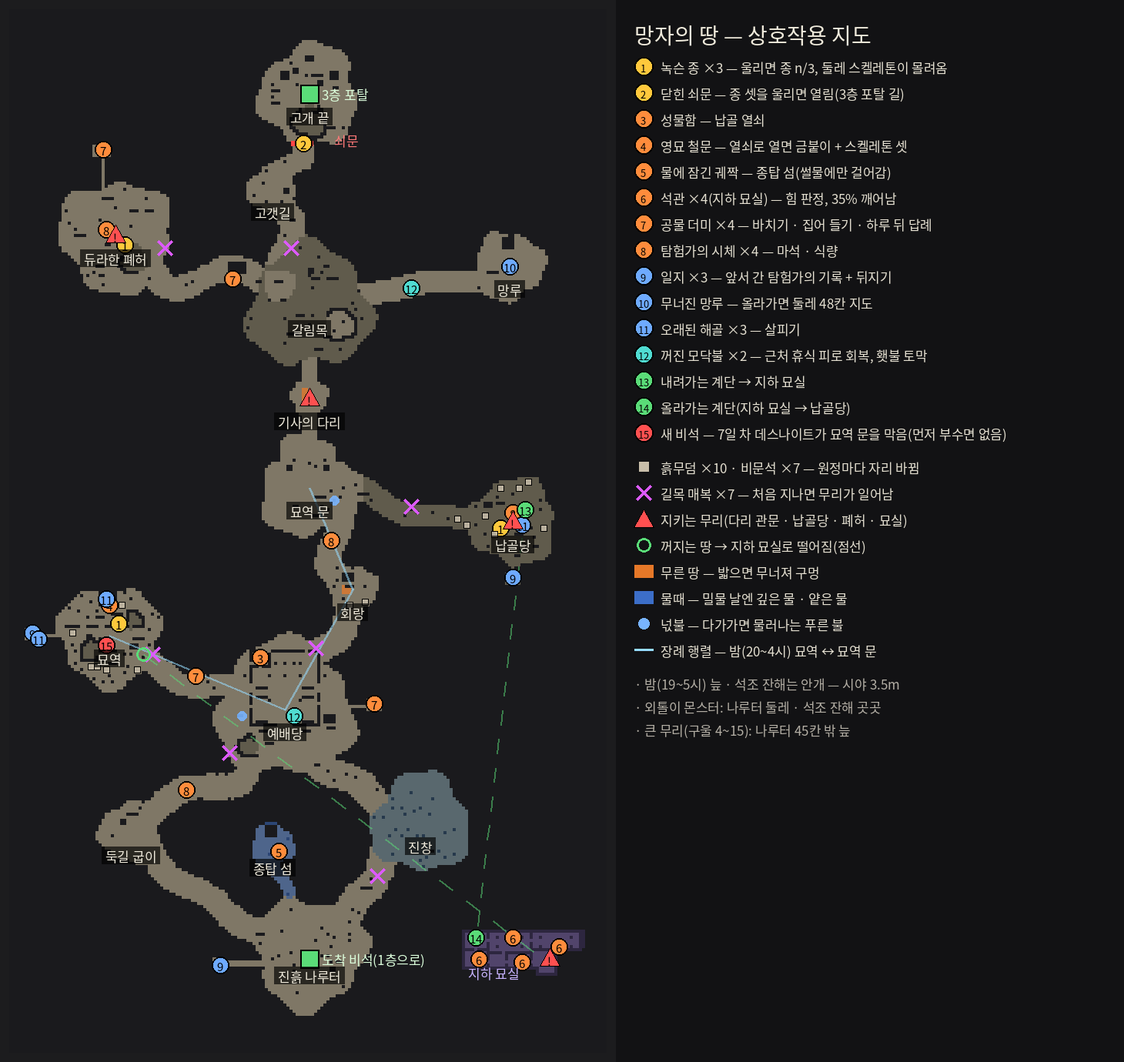
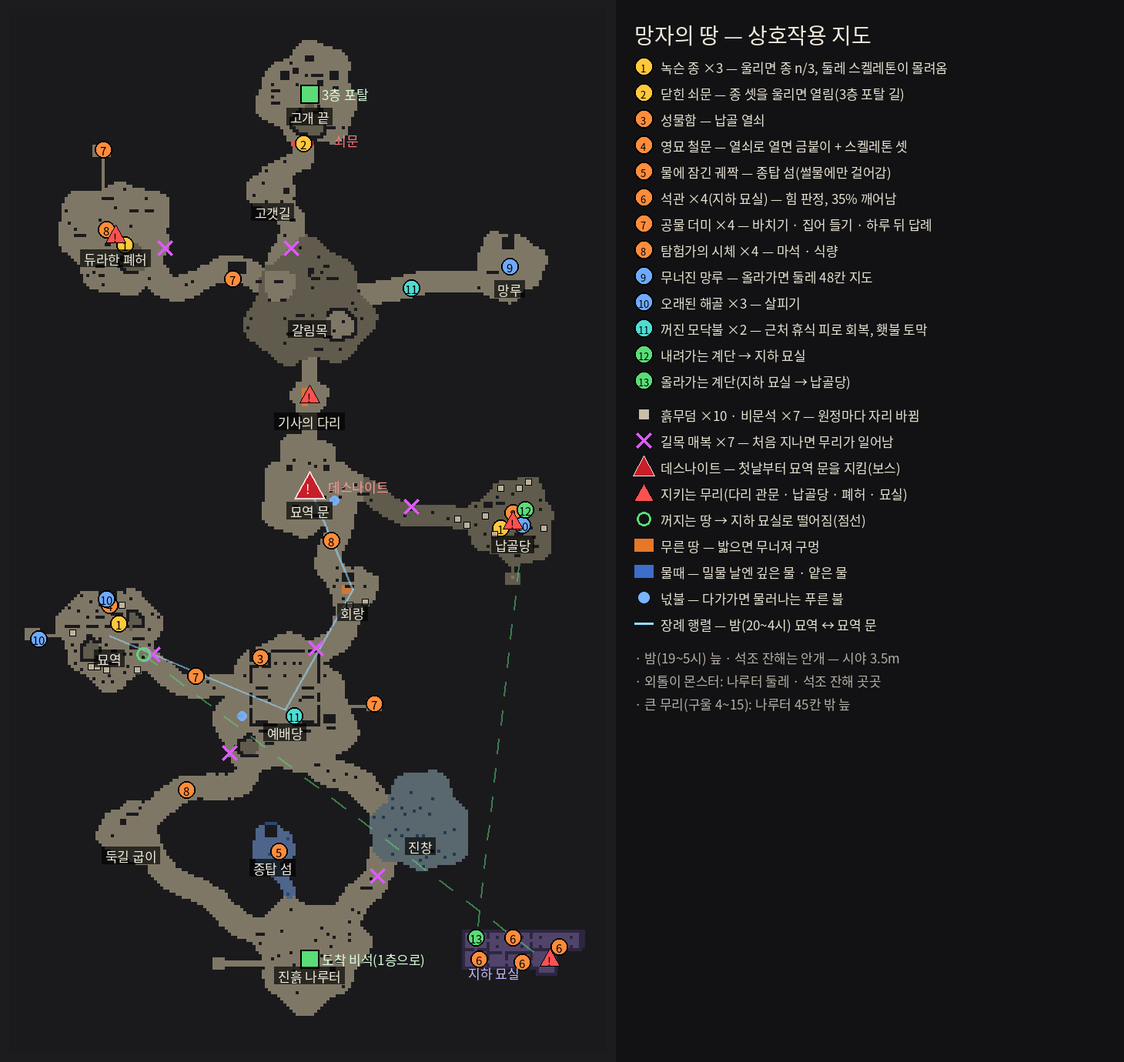
망자의 땅: 데스나이트는 첫날부터 묘역 문을 지킨다(비석 7일 차 깨어남 지움), 앞서 간 탐험가 일지 셋 지움
Claude-Session: https://claude.ai/code/session_01Afqs6cVmrzb62qBFp3aYYp

diff --git a/docs/REFERENCE.md b/docs/REFERENCE.md
@@ -67,8 +67,8 @@
 - **동네 지도(2026-11-02, CT82 — 횡스크롤 거리 대신 · v3 2026-11-03, CT95)**: 컬렉션 `town`(`data/town/<id>.json` {id, name_ko, size [w, h], start [x, y], seed, bands[] {h(칸 높이), line [[x, y]…](그 단의 남쪽 경계 — 마지막 단은 없음)}(경계 칸 = 옹벽, 계단은 칸 사이 높이를 잇는다), areas[] {kind(street·avenue·paving·plaza·stairs·bridge·yard·water·retain·wall·gate·dais)(바닥 굽기 표시: main = 큰길 · pattern "diag" = 광장 판석 · wood = 나무 부두 — CT103), rect [x0, y0, x1, y1] · circle [cx, cy, r] · poly [[x, y]…] · line [[x, y]…] + width, h(그 칸 높이를 따로 — 수로 물), gate면 id·travel}, houses[] {center [x, y], size [폭, 깊이], angle(도, + = 시계 방향), floors, place(퀘스트 자리 id)}(집 목록 — v4 블록 도시는 블록 둘레 줄집, ← tools/town_v4.py · CT100 · zone(civic · market · res · river · townhall — 집 꼴 · 지붕 색, CT103)), places[] {id, name_ko, at [[x, y]…], hook_ko}(퀘스트 · 거리 사건 자리 — 지금은 자리만), sewer {tunnels [[[x, y]…]…], entrances [[x, y]…]}(하수도 — 자리만), blocks[] [x0, y0, x1, y1, 각도(도)](그 각도로 기운 줄의 작은 집 — CT84), buildings[] {facility, rect 또는 circle, style(gothic·rotunda·hall·stone·inn·arcade·workshop), floors, door [x, y](앞면 맨 아래 줄)}, props[] {kind(lamp·tent·board·barrel·crate·sacks·well·grave·stall·cart·bench·planter·fountain·laundry — CT98 · tree·bush·woodpile·trough·signpost·statue·bollard·banner·goods — CT101 · sign·walllamp·wagon·rail·boat(물 칸 위 — TownMap.FLOATING)·household — CT103), at [[x, y]…] · line [x0, y0, x1, y1] + step · ring [cx, cy, r, n] · rect}}) → `TownMap.load_for(db, overrides)`(kind_at·ground_at·is_walkable·height_at(칸)·elevation(몸 자리 — 계단 보간)·max_height·target(pos, facing) → {door}·{gate, travel}·{ring} · door_front · house_of · places · houses[{id, center, size, angle, rect, floors, roof hip·gable, ridge_long, style stone·timber·plaster·시설 꼴, look, facility, place, elev(선 땅 높이), circle, door}] · props · gates · dais · map(FloorMap)). 3/4 높이 그리기: 구운 바닥 `assets/town/ground/index.json`{tile, chunks[{file, rect [x, y, w, h] 게임 px}]} ← tools/town_ground_bake.py(CT99 — 있으면 TownWorld._baked_ground, 없으면 TownGround(칸 높이만큼 위 + 남쪽보다 높으면 앞면)) · TownHouse.lift · TownProp.lift · TownWorld.player_root(발 = 정렬, 몸은 그 안에서 위로) — CT95. 걷기 `city.json town{map, walk_tiles_per_sec, body_half, corner_assist, stairs_speed, floor_tile, block_tile}`, 그림 `render.json city.town{zoom, actor_scale, storey, base, roof_pitch, facility_pitch, roof_rise_max, overhang, light, ambient, diffuse, ink_alpha, fade_alpha, fade_speed, facility_dim, chunk, ground_ao, litter, colors{바닥 종류·stone[]·plaster[]·timber_fill[]·slate[]·roofs[]·shutter[]·banner[]·…}}` — 집은 `TownSolid`(3D 면 → 게임 시점, CT84), 재질 `assets/town/mat/<id>.webp`(tools/paint_town.gd). 집 그림 = 구운 그림판 `assets/town/houses/p<k>.webp` + `index.json`{scale, houses{id: {page, rect [x, y, w, h], off [x, y](노드 원점 기준 게임 px), key}}} ← `tools/paint_town_houses.gd`(CT85) — `TownHouse.baked(h)`·`bake_key(h)`·`front_y_of(h)`, 모양 값이 다르면 선 그림. `TownWorld.stream(화면 가운데)` = 둘레 집 노드만(8칸 묶음). 검사 `TownRules`(문 앞이 들어온 자리에서 닿는가). 문구 `city.town.portal_closed`. 시설 창 `FacilityView`(동네 위 어둡게 — 실내는 지웠다, CT83).
 - **시설 실내(2026-11-04, CT106)**: 시설 `interior`(→ 컬렉션 `interiors`, `data/interiors/<id>.json` {id, facility, name_ko, art_dir, rows(칸 글자 — `#` 벽 · `.` 바닥 · `D` 바깥 문, 맨 윗줄 = 북벽), legend {글자: {kind: wallart|furniture|low|door|back|npc, name_ko, art(그림 이름 — `tools/interior_furn.py`·`interior_walldeco.py`), light {color, radius, power}, needs(활동이 이번 순에 있을 때만 선다), opens(이 사건 순에만 열리는 문), locked}}, rooms [{at, name_ko, floor, wall, ambient}], spots [{char | at, activities, name_ko}], npcs [{at, look, name_ko, face, needs}]}) → `CityInterior`(방 = 벽 · 벽 장식 · 문으로 나뉜 칸 덩어리, `room_at` · `target` · `start`). 규칙 `city.json interior.max_room`, 연출 `render.json city.interior {fade_sec, camera_sec, actor_tint}`. 그림 `assets/city/interiors/<id>/index.json`(tile · wall_h · rooms[{bg, front[]}] · wallart[] · furniture{"x,y"}) ← `python3 tools/interior_bake.py`. 검사 `CityInteriorRules`.
 - **층 목표 · 길목 매복(2026-11-06, FL18)**: 층 JSON `goal {flag, need, hud(문구 키 — {n}/{need}), open_line, open_sound}`(`FloorGoal` — 세션 `goal`, 동굴 요소 행동 `"goal": 이름`이 하나씩 센다, HUD 한 줄) · gen `gate {a, b, t, tile}`(`FloorGoal.place_gate` — 길 a → b의 t 지점을 가로지르는 줄, `map.anchors["gate"] = {cells, under}` · `marks.gate_mid`) · `route_spots.ambush [{edge: [a, b], t, monsters, radius, line, sound}]`(`RouteAmbush` — 세션 `ambush`, `enter_cell`이 부른다) · route_spots features `edge`+`t`(길 위 자리) · `object: true`(타일을 바꾸지 않는다 — 걷지 못하는 칸도). 그림 시트 specs places.<곳>.`stand_cols`(곳마다 칸 수).
-- **길 그래프(2026-11-05, FL8)**: fields `gen.grammar` "route"(`FieldsRoute`) — `seed`(고정 지도) · `tiles {rise, floor, down, up}` · `zone_fill {구역: 메움 타일}` · `zone_floor {구역: 구간 바닥}` · `nodes [{id, at, r, zone, kind: arrival|exit|place|pocket, tile, beacon}]` · `edges [{a, b, width, tile, wiggle, walls}]` · `props [{zone, tile, count}]` · 구간 `props [{tile, count}(구간 안 무작위) | {tile, at [[dx, dy] …]}(가운데에서 그 칸들)]`(FL9) · `buildings [{node, at, size, door n|s|e|w|""(속이 찬 석조물), wall, floor, path}]`(벽 테두리 + 안 바닥 + 문에서 길까지 1칸 샛길 — 숨은 방) · `ruins [{zone, tile, count}]`(무너진 벽 · 기둥 조각) · `fence [{node, tile, pad, along}]`(구간 둘레 울타리 — along 타일과 맞닿은 칸) · `outer_props [{zone, tile, count, near}]`(길 밖 소품 — `FieldsRouteBuild`, FL10) · 높낮이(FL12): `zone_low {구역: 낮은 땅 타일}` · 구간 · 길 `level: "low"` · 길 `ramp: true` · 구간 `terraces [{at, r, level, ramp: [dx, dy]}]` · `levels {scree, ramp}` · `stamps [{node, at, legend, rows}]`(장소 조각) · `route_spots.scatter [{zone | node + r, event, count}]`(원정마다 무작위 자리) · 요소 행동 `spawn {monsters, chance, line}` · `clear_tile` · `reveal`(칸 반경 지도 밝힘, FL13) · `goto`(표시로 옮겨 선다) · 층 `terrain {tide {period_hours, flood, deep}, night_fog {zones, from, to, cap_m}, crumble {hole}, wisps [{tile, points [[구간, dx, dy]…]}], procession {monsters, route [구간…], from, to}}`(`FieldTerrain`) · gen `crumble [{node, at, size, tile}]` · `drops [{node, at, tile, to}]` · `marks [{name, node, at}]` · `crypts [{at, legend, rows, marks}]` · 길 · 구간 `tide: flood|deep` · route_spots `mark`(구간 대신 표시 기준, FL14) · 층 `maws {period_sec, open_sec, phase_step, reach, cooldown_sec, throat_monsters [[id…]…]}`(`MawTraps` · `MawView`) · gen `maws [{node, at}]` · crypts `lit` · balance `coin.maw.heads` · render `view.maw` (FL15) · gen `landmarks [{node, at, kind, foot [w, d]}]` · `landmarks_under {접미: 바닥}`(큰 구조물 — 타일 `f2d_big_<kind>_<접미>` · `f2d_block_<접미>`) · 균열 그림 specs `bigs {script, cell, cols, order}`(→ big.webp, FL16) · 타일 `art.ramp`(비탈 — MoatBank 절벽 없음) · 걸을 수 있는 `art.sunk` 바닥(낮은 땅) · 층 `art.abyss.bank {depth_tiles, shadow_tiles, shadow_alpha}`, 지도 표시 `map.anchors.nodes`·`node_r`. 층 `route_spots {guards [{node, monsters}], features [{node, event, at}]}`(`RouteSpots`) · `grave_wake.node`·`stand_at`. (marsh 문법과 그 키 bands · ruins · mounds는 없앴다.)
-- **2층 망자의 땅 1단계(2026-11-05, FL6)**: 타일 `move_mult`(걷는 빠르기 배율 — 진창 0.7, `TileDef.move_mult` · 플레이어 `ExploreSession.move_dir` · 몬스터 `MonsterSteering.ground_mult`) · 몬스터 `behavior.mud_walker`(진창에서 느려지지 않음) · 걸을 수 있고 시야를 막는 바닥 타일(둔덕 — `walkable` + `blocks_sight`) · 층 `grave_wake` {event, zone, min_entry_tiles, day, monster, line, sound}(`GraveWake`) · 동굴 요소 `standing: true`(걷지 못하는 서 있는 요소 — 둘레를 비워 세우는 것만) · 요소 행동 `hours` · `check {stat, dc}` · `fail_line`(FieldFeatureAct) · fields `gen.props [{band, tile, count}]` · 그림 장소 `f2d`(tools/floor_art/rift/f2d.gd — 핏빛성채 그리는 법, 깊은 물 `blackwater`) · 균열 그림 `specs.json` 바닥 `dim`(그림 평균 = 타일 색 × dim — 어둠 속에서도 둘레보다 어둡게, FL9) · 솟은 외곽 `kind grave`(묘지 담 + 안개 들판) · 타일 `art.top_tex`(모양 벽 윗면을 검게 대신 아틀라스 윗줄 그림, FL11) · 층 팔레트 `keep_hue`(근흑색 아래를 올릴 때 색조를 남긴다) · `memory_desat`(기억 칸 탈색, FL10) · 전투 뒷그림 `SceneDead`.
+- **길 그래프(2026-11-05, FL8)**: fields `gen.grammar` "route"(`FieldsRoute`) — `seed`(고정 지도) · `tiles {rise, floor, down, up}` · `zone_fill {구역: 메움 타일}` · `zone_floor {구역: 구간 바닥}` · `nodes [{id, at, r, zone, kind: arrival|exit|place|pocket, tile, beacon}]` · `edges [{a, b, width, tile, wiggle, walls}]` · `props [{zone, tile, count}]` · 구간 `props [{tile, count}(구간 안 무작위) | {tile, at [[dx, dy] …]}(가운데에서 그 칸들)]`(FL9) · `buildings [{node, at, size, door n|s|e|w|""(속이 찬 석조물), wall, floor, path}]`(벽 테두리 + 안 바닥 + 문에서 길까지 1칸 샛길 — 숨은 방) · `ruins [{zone, tile, count}]`(무너진 벽 · 기둥 조각) · `fence [{node, tile, pad, along}]`(구간 둘레 울타리 — along 타일과 맞닿은 칸) · `outer_props [{zone, tile, count, near}]`(길 밖 소품 — `FieldsRouteBuild`, FL10) · 높낮이(FL12): `zone_low {구역: 낮은 땅 타일}` · 구간 · 길 `level: "low"` · 길 `ramp: true` · 구간 `terraces [{at, r, level, ramp: [dx, dy]}]` · `levels {scree, ramp}` · `stamps [{node, at, legend, rows}]`(장소 조각) · `route_spots.scatter [{zone | node + r, event, count}]`(원정마다 무작위 자리) · 요소 행동 `spawn {monsters, chance, line}` · `clear_tile` · `reveal`(칸 반경 지도 밝힘, FL13) · `goto`(표시로 옮겨 선다) · 층 `terrain {tide {period_hours, flood, deep}, night_fog {zones, from, to, cap_m}, crumble {hole}, wisps [{tile, points [[구간, dx, dy]…]}], procession {monsters, route [구간…], from, to}}`(`FieldTerrain`) · gen `crumble [{node, at, size, tile}]` · `drops [{node, at, tile, to}]` · `marks [{name, node, at}]` · `crypts [{at, legend, rows, marks}]` · 길 · 구간 `tide: flood|deep` · route_spots `mark`(구간 대신 표시 기준, FL14) · 층 `maws {period_sec, open_sec, phase_step, reach, cooldown_sec, throat_monsters [[id…]…]}`(`MawTraps` · `MawView`) · gen `maws [{node, at}]` · crypts `lit` · balance `coin.maw.heads` · render `view.maw` (FL15) · gen `landmarks [{node, at, kind, foot [w, d]}]` · `landmarks_under {접미: 바닥}`(큰 구조물 — 타일 `f2d_big_<kind>_<접미>` · `f2d_block_<접미>`) · 균열 그림 specs `bigs {script, cell, cols, order}`(→ big.webp, FL16) · 타일 `art.ramp`(비탈 — MoatBank 절벽 없음) · 걸을 수 있는 `art.sunk` 바닥(낮은 땅) · 층 `art.abyss.bank {depth_tiles, shadow_tiles, shadow_alpha}`, 지도 표시 `map.anchors.nodes`·`node_r`. 층 `route_spots {guards [{node, monsters}], features [{node, event, at}]}`(`RouteSpots`). (marsh 문법과 그 키 bands · ruins · mounds는 없앴다.)
+- **2층 망자의 땅 1단계(2026-11-05, FL6)**: 타일 `move_mult`(걷는 빠르기 배율 — 진창 0.7, `TileDef.move_mult` · 플레이어 `ExploreSession.move_dir` · 몬스터 `MonsterSteering.ground_mult`) · 몬스터 `behavior.mud_walker`(진창에서 느려지지 않음) · 걸을 수 있고 시야를 막는 바닥 타일(둔덕 — `walkable` + `blocks_sight`) · (층 `grave_wake`·`GraveWake`는 2026-11-06에 뺐다 — 데스나이트는 route_spots.guards, FL19) · 동굴 요소 `standing: true`(걷지 못하는 서 있는 요소 — 둘레를 비워 세우는 것만) · 요소 행동 `hours` · `check {stat, dc}` · `fail_line`(FieldFeatureAct) · fields `gen.props [{band, tile, count}]` · 그림 장소 `f2d`(tools/floor_art/rift/f2d.gd — 핏빛성채 그리는 법, 깊은 물 `blackwater`) · 균열 그림 `specs.json` 바닥 `dim`(그림 평균 = 타일 색 × dim — 어둠 속에서도 둘레보다 어둡게, FL9) · 솟은 외곽 `kind grave`(묘지 담 + 안개 들판) · 타일 `art.top_tex`(모양 벽 윗면을 검게 대신 아틀라스 윗줄 그림, FL11) · 층 팔레트 `keep_hue`(근흑색 아래를 올릴 때 색조를 남긴다) · `memory_desat`(기억 칸 탈색, FL10) · 전투 뒷그림 `SceneDead`.
 - **2층 · 층 이동(2026-11-05, FL5 — `plans/floor2.md`)**: 층 JSON `arrival`(이 층에 도착하는 아래층 포탈의 dest — `FloorTravel.floor_for`) · 생성기 `fields`(`gen.grammar` "marsh" · `size` · `margin` · `edge_jag` · `tiles {rise, floor, hard, ruin, mound, down, up}` · `bands [[구역, 몫]]` · `hard_from` · `ruins {band, count, size, broken}` · `mounds {band, count, radius}`) · 지역 `horde: true`(pack_size 최대를 넘어 `pack_by_day` 그대로) · 포탈 kind `floor_down`(도착 비석 — 아래층으로) · `ExploreSession.below`·`below_at` · 전투 `Battle.horde`(예비대 — `BattleHorde`, 남은 수 `HordeCount` · render.json `ui.horde_count`, 문구 `combat.horde_left`).
 - **일반 집 실내(2026-11-04, CT110)**: 실내 `facility: ""`(활동 · 자리 없음) · `city.json interior {houses_locked, house_kinds {집 바리에이션 함수: 실내 id}}` · 집 문 `assets/town/houses/doors.json {houses: {집 id: {door [x, y], design}}}`(`tools/town_doors.gd`) → `TownHouseDoors` → `TownMap.house_doors`.
 - **거리 사건 일러스트(2026-10-22, CT45)**: `street_events/<id>.json` `art`(그림 경로 — 없으면 어둡게만 덮는다, 있는데 파일이 없으면 검증 오류) · `StreetEventView`(도시를 덮는 그림 — `CityScreen.event_view()`, 떠 있는 동안 `_event_running`이 도시 조작을 막는다) · render.json `city.event_art{dim, top, bottom_reserve, side, border, fade_sec}` · `UiTheme.render_dict` · 그림 도구 `tools/city_art/Events.gd`(공통 `EventKit` + 묶음 `Events2`·`Events3`) → `paint_city.gd -- --only=events [--event=<id>]` · `Npcs` look `one_arm`.

diff --git a/docs/ASSUMPTIONS.md b/docs/ASSUMPTIONS.md
@@ -796,6 +796,7 @@
 | FL16 | **큰 구조물 · 소품 덜기(2026-11-05, 사용자 "좀 커다란 구조물 — 부자연스럽지 않은 선에서. 지금 약간 토핑 뿌려진 느낌")**: 여러 칸짜리 그림 다섯 — 큰 영묘(발자리 6×3) · 날개 꺾인 천사상(3×2) · 무너진 종탑(4×3) · 거대한 고목(2×2) · 문지기 기사상(2×2), 그림 `tools/floor_art/rift/f2d_big.gd`(한 칸 = 8×10 바닥 칸 그림판, 선은 칸 크기 기준으로 가늘게) → `assets/floor/f2d/big.webp`(paint_floor `--only=f2d:big`, specs places.f2d.bigs). 서 있는 소품 크기 [8, 10]으로 발 칸에 세우고 발자리 나머지는 그림 없는 막음 타일(`f2d_block_*`). 밑 바닥마다 타일 넷(풀밭 · 굳은 흙 · 판석 · 진창). 열세 곳(큰 영묘 둘은 사용자 2026-11-05 "신전 같은 건물 제거"로 뺐다 — 그림은 시트에 남김): 비석 터 천사상, 예배당 동쪽 종탑, 회랑 종탑, 묘역 문 기사상 둘(다리 쪽을 지킨다), 납골당 천사상, 갈림목 · 나루터 · 둑길 · 고갯길 고목, 3층 포탈 앞 기사상 둘 · 천사상. 자리는 발자리 + 둘레 한 칸이 걸을 수 있는 곳만(아니면 4칸 안 가장 가까운 곳 — 길을 막지 않는다). 흩뿌린 작은 소품 수는 절반으로(구역 · 구간 count), 흙무덤 14 → 10 | 그림 · 자리는 가정 | `f2_land_of_dead.json gen.landmarks · landmarks_under` · `FieldsRouteBuild.landmarks` |
 | FL17 | **초입 외톨이 몬스터(2026-11-06, 사용자 "무리 말고도 초입에 1마리씩 전투할 수 있게")**: 지역 키 `pack`([최소, 최대] — 한 무리 마릿수를 못 박음) · `entry_dist`([최소, 최대] — 도착 칸에서 곧은 거리, 최대 0 = 끝없음). 한 구역에 지역 여럿. 늪 큰 무리는 나루터 45칸 밖, 늪 외톨이(구울 3 · 스켈레톤 2) 10~60칸 4~5마리 + 60칸 밖 4~5마리, 석조 잔해 외톨이(스켈레톤 · 궁수 · 전사 · 구울) 7~9마리. 모두 한 마리 | 마릿수 · 거리는 임시값 | `f2_land_of_dead.json regions` · `FieldMonsters._within_entry` |
 | FL18 | **층 목표 · 길 줄이기 · 길목 사건 · 아귀 입 뺌(2026-11-06, 사용자 "층 목표 · 통로를 줄이고 사건 · 맵에서 아귀입 제거")**: ① 층 JSON `goal {flag, need, hud, open_line, open_sound}`(`FloorGoal`) — 종 셋(묘역 · 납골당 · 듀라한 폐허, 요소 `bell` — 행동 `goal: "bell"`, 울리면 푸른 불 `f2d_bell_rung`, 둘레 스켈레톤이 몰려온다)을 울리면 고개 쇠문(gen `gate {a, b, t, tile}` — 길 pass → summit의 0.45 지점을 가로지르는 칸 줄, `_seal_unreachable` 뒤에 놓는다)이 원래 바닥으로. 문은 요소 `pass_gate`(살피면 종 셋 문양 — 힌트). HUD "종 n/3". ② 지도 220×520 → 200×345: 구간 자리 x를 110 둘레로 0.85배, y를 0.62배(반지름 · 길 폭은 그대로 — 길만 짧아진다), 지하 묘실 [150, 302]. ③ `route_spots.ambush`(`RouteAmbush` — 길 위 7곳, 처음 들어서면 길가에서 무리가 일어나 쫓아온다) · features `edge`+`t`(길 위 자리 — 시체 · 공물 · 모닥불 다섯) · `object`(이미 있는 물체 칸). ④ 아귀 입 · 목구멍 방 데이터를 뺐다(gen.maws · maws · 목구멍 방 묘실 · throat_wall 요소 · 테스트) — 코드 `MawTraps`·`MawView`는 남겨 둔다(층 JSON에 다시 넣으면 살아난다). 그림 `f2d_bell`·`f2d_gate`(stand.webp 10칸 — specs `stand_cols` 곳마다) | 종 자리 · 매복 구성 · 줄인 비율은 가정 | `f2_land_of_dead.json goal · gen.gate · route_spots` · `FloorGoal` · `RouteAmbush` |
+| FL19 | **데스나이트 처음부터 · 일지 뺌(2026-11-06, 사용자 "데스나이트 항상 위치시키고 앞서간 일지 제거해")**: 데스나이트는 원정 첫날부터 묘역 문(tomb_gate — 예전 7일 차에 깨어나 서던 자리)을 지키는 고정 무리(`route_spots.guards`, 보스 무리 — 리스폰 없음). 비석 · 7일 차 깨어남(`grave_wake` · `GraveWake` · 요소 grave_stone · 타일 f2d_grave · 문구)은 지웠다. 일지 셋(journal_1~3 · 타일 f2d_corpse · 문구)도 지웠다 | 자리(묘역 문 — 큰길 위)는 가정: 묘역(종 옆)으로 옮기려면 guards의 node | `f2_land_of_dead.json route_spots.guards` |
 | FL3 | **층 하나 = 부품 17개**(floors_2_10.md §1 — 층 정의·생성기·고정 지도·지역·몬스터·정수·그림·동굴 요소·탐험가·포탈·균열·군주·맵 그림·전투 뒷그림·소리·글·서적). 갖춘 정도 = `tools/floor_status.py`(● ◐ ○ → `docs/balance/floor_status.md`). 이름 규칙 `f<n>_<id>` · 지역 `f<n>_<지역>` · `floor_tags` · `assets/floor/f<n>/`. 템플릿 `data/floors/_template.json`을 지금 스키마로 다시 씀 | 1층에서 실제로 쓴 것을 빠짐없이 쪼개야 "찍어내기"가 된다. 파일 존재·참조만 보는 파이썬이라 Godot 없이 돈다 | 부품을 더하면 §1 표와 `floor_status.py check()`를 함께 |
 | FL4 | **층 모양 = 생성기 갈래 넷**(가정): 동굴 `crystal_cave`(1) · 들판 `fields`(2·3·5·7·8·9·10 — 이름 붙은 필드 여럿을 길목으로) · 탑 `tower`(4 — 스테이지 = 손 설계 지도 묶음, 원작 100스테이지는 줄임) · 바다 `islands`(6 — 배). 생성기는 아직 하나도 안 만듦 | 원작 층 구조가 동굴 → 다중 필드 → 탑 → 오픈월드 → 바다 → 대륙 — 대부분 "필드 여럿"이라 하나를 잘 만들면 일곱 층이 쓴다 | floors_2_10.md §2-2 |
 | FL5 | **찍기 전 고칠 것(M6-0)** = 층 이동·아래층 포탈·원정/폐쇄·층 상태 저장(6층)·시뮬레이터 `--floor`·층별 균열 달력·약탈자 마석(`FieldPartyMeet.STONE`)·군주 부르는 조건 핸들러·긴 스크립트 나누기·그림 도구 장소(floors_2_10.md §2-1 A~K) | 코드가 1층을 전제한 곳 — 데이터만으로는 2층을 못 만든다 | 하나씩 끝나면 §2-1 표에서 지운다 |

diff --git a/docs/STRINGS.md b/docs/STRINGS.md
@@ -1,6 +1,6 @@
 # 게임 글 (`data/strings/ko.json`)
 
-> 게임 화면·대화창·기록에 나오는 글 전부(1017줄). **이 파일을 고친 뒤 적용하면 게임에 들어간다.**
+> 게임 화면·대화창·기록에 나오는 글 전부(1010줄). **이 파일을 고친 뒤 적용하면 게임에 들어간다.**
 > - 한 줄 = ``- `키` 글``. **키(`` ` `` 안)는 바꾸지 말고 뒤의 글만** 고친다. 줄을 지우거나 새 키를 쓰면 무시된다(키는 코드가 부른다).
 > - `{이름}`은 자리표시자(게임이 값으로 바꿔 넣는다 — 그대로 둔다). 번호 키(`.1` `.2` …)가 여럿이면 차례로 모두 나오거나(장면) 하나를 고른다(묶음 설명 참고).
 > - 적용: `godot --headless --path . --script res://tools/strings_md.gd -- --apply` → `data/strings/ko.json`이 바뀐다(그 뒤 `tools/check.sh`).
@@ -263,7 +263,6 @@
 - `explore.rest_unsafe` 벽에 기대 {hours}시간을 졸았다. 쉰 것 같지 않다.
 - `explore.no_item` {item}이(가) 없다.
 - `explore.no_category` 가진 {category}이(가) 없다.
-- `explore.grave_wakes` 늪 어딘가의 비석 아래에서 무언가가 일어났다.
 - `explore.portal_locked` {floor}층으로 가는 포탈이다. 소용돌이가 아직 닫혀 있어 그 너머로 갈 수 없다.
 - `explore.monument` 대현자 기념비. 이 근처에는 아무것도 다가오지 않는다.
 - `explore.monument_opt_offer` {item} {n}개를 바친다
@@ -1260,9 +1259,6 @@
 - `field.mud_tracks` 진흙 바닥에 무리가 지나간 발자국이 깊게 패어 있다. 아직 축축하다.
 - `field.breeze` 바위 틈에서 서늘한 바람이 새어 나온다. 어딘가 큰 공간이 있다.
 - `field.cairn` 누군가 납작한 돌을 쌓아 탑을 세웠다. 맨 위의 돌에는 아직 먼지가 앉지 않았다.
-- `field.grave_stone` 진창 위에 갓 깎은 듯한 비석이 서 있다. 새겨진 이름은 없고, 손을 대면 돌이 차갑게 떨린다.
-- `field.grave_stone_break` 비석을 걷어차 쓰러뜨렸다. 진창에 처박힌 돌 아래에서 차가운 기운이 빠져나가 흩어졌다.
-- `field.grave_stone_break_fail` 한참을 내리쳐도 비석은 꿈쩍하지 않는다.
 - `field.blood_well_pour` 손바닥을 그어 우물에 피를 흘려 넣었다. 바닥에서 검붉은 잔이 떠오른다.
 - `field.blood_well_done` 우물은 더 이상 피를 받지 않는다.
 - `field.blood_well_look` 우물 바닥에서 비릿한 냄새가 올라온다. 무언가가 목마른 것 같다.
@@ -1281,9 +1277,6 @@
 - `field.sealed_tomb_open` 자물쇠가 비명처럼 돌아갔다. 안쪽 관대 위에 부장품이 그대로 놓여 있다.
 - `field.sealed_tomb_guard` 관대 둘레의 뼈들이 하나씩 일어섰다.
 - `field.sacristy` 무너진 제단 뒤 작은 함 안에 녹슨 열쇠 하나와 타다 남은 초가 들어 있다.
-- `field.journal_1` 쥔 손 안에 일지 한 장이 구겨져 있다. 「나루터에서 넷이 출발. 진창길이 빠르다고 했지만 구울이 너무 많다. 둑으로 돌아간다.」
-- `field.journal_2` 품속에 젖은 일지 한 장. 「묘역의 새 비석. 손을 대면 떨린다. 대장은 내버려 두자고 했다. 이레째에 무언가 깬다는 걸 우리는 몰랐다.」
-- `field.journal_3` 마지막 장이다. 「영묘 열쇠는 예배당 제단 뒤에 있다. 문을 연 건 실수였다. 남은 건 나 혼자다.」
 - `field.watch_post` 무너진 계단을 딛고 망루 위에 섰다. 안개 너머로 길과 불빛이 내려다보인다.
 - `field.sarcophagus` 돌 뚜껑에 누운 기사의 모습이 새겨져 있다. 얼굴만 누군가 망치로 뭉개 놓았다.
 - `field.sarcophagus_fail` 뚜껑이 손가락 한 마디만큼 밀리다 멈췄다.

diff --git a/docs/archive/PROGRESS_LOG.md b/docs/archive/PROGRESS_LOG.md
@@ -3,6 +3,10 @@
 > 2026-10-20 문서 정리 때 옛 `docs/PROGRESS.md`를 그대로 옮긴 것이다(내용은 바꾸지 않았다 — 안의 "다음 할 일"·"현재 상태 기준" 문장은 그날 기준으로 낡았다).
 > **지금 상태와 다음 할 일은 `docs/PROGRESS.md`가 정본이다.** 새 작업의 자세한 기록은 이 문서의 "## 작업 기록" 맨 위에 쓴다(PROGRESS.md에는 한 줄만).
 
+### 2026-11-06 데스나이트 처음부터 · 일지 뺌(FL19) · 상호작용 지도
+- 사용자 "2층 관련 이벤트 상호작용 전부 정리 — 새 지도로" → `docs/plans/f2_interactions_map.png`(실제 세션 자리). 이어서 "데스나이트 항상 위치시키고 앞서간 일지 제거".
+- 데스나이트 = route_spots.guards tomb_gate(첫날부터, 보스 무리). GraveWake · grave_wake · grave_stone · f2d_grave · 문구 지움. journal_1~3 · f2d_corpse · 문구 지움. 테스트: 비석 테스트 → 지키는 무리 테스트에 데스나이트 자리 · 일지 없음.
+
 ### 2026-11-06 망자의 땅 층 목표 · 길 줄이기 · 길목 사건 · 아귀 입 뺌(FL18)
 - 범위: 사용자 "2 3번 하고 맵에서 아귀입 제거"(피드백 2 = 층 목표 — 종 셋 → 고개 문, 3 = 통로를 줄이고 사건). 완료 기준: 종 셋 전엔 3층 포탈에 걸어 닿지 못하고 셋 뒤엔 닿는다 · 길이 짧다 · 매복이 한 번 터진다 · 아귀 입 없음. 테스트: test_floor2(종 · 쇠문 · 매복 · 도달) + 캡처(종 · 쇠문).
 - 한 일: `FloorGoal`(goal · gate) · `RouteAmbush` · RouteSpots edge/object · FieldFeatureAct goal · HUD 종 n/3 · 요소 bell · pass_gate · 타일 f2d_bell · f2d_bell_rung · f2d_gate(그림 f2d.gd _bell · _gate, stand.webp 10칸) · 문구 field.bell_ring · pass_gate · gate_open · ambush · explore.hud_bells · 소리 키 bell_toll · gate_open(파일 없음).

diff --git a/docs/PROGRESS.md b/docs/PROGRESS.md
@@ -51,6 +51,7 @@
 
 ## 3. 최근 작업 (위가 최신, 10줄까지 — 자세한 것은 PROGRESS_LOG에서 제목으로)
 
+- 2026-11-06 **데스나이트 처음부터 묘역 문 · 일지 뺌(FL19)** — 비석 7일 차 깨어남 지움, 상호작용 지도 `docs/plans/f2_interactions_map.png`
 - 2026-11-06 **망자의 땅 층 목표 · 길 줄이기 · 매복 · 아귀 입 뺌(FL18)** — 종 셋 → 고개 쇠문, 지도 200×345, 길목 매복 7 · 길 위 요소 5
 - 2026-11-06 **망자의 땅 초입 외톨이(FL17)** — 나루터 둘레 한 마리씩(구울 · 스켈레톤), 큰 무리는 45칸 밖, 석조 잔해에도 외톨이
 - 2026-11-05 **전투: 출혈 피해가 공격 몸짓을 끊던 것 고침** — 행동하며 흘린 피(지속 피해 `dot`)는 숫자만, 피격 몸짓 없음
@@ -60,7 +61,6 @@
 - 2026-11-05 **망자의 땅 변하는 지형(FL14)** — 물때(진창 잠김 · 종탑 섬 갯길), 밤 안개, 무른 땅(다리 · 회랑), 꺼져 떨어지는 땅 → 지하 묘실(석관 · 계단), 넋불 둘, 밤 장례 행렬
 - 2026-11-05 **망자의 땅 살필 것(FL13)** — 흙무덤 파기(물건 · 구울) · 비문석 · 잠긴 영묘(예배당 성물실 열쇠) · 탐험가 일지 세 쪽 · 망루 오르기(둘레 지도)
 - 2026-11-05 **망자의 땅 높낮이 · 장소 조각(FL12)** — 높은 땅 / 낮은 땅(절벽 면) + 흙 계단 비탈, 낮은 늪 · 분지 · 꺼진 구덩이 · 솟은 잔교, 예배당 건물 · 묘역 울타리 구획(글자 지도 `stamps`)
-- 2026-11-05 **망자의 땅 입체감(FL11)** — 길 밖 = 둥근 흙 둔덕 벽(1층 암벽처럼 검은 윗면 + 흙 벼랑 앞면), 석조 건물 · 잔해 둥근 모서리 + 돌 윗면(`art.top_tex`), 초록을 바랜 올리브 · 잿빛으로
 
 ## 4. 지금 유효한 메모
 

diff --git a/docs/PLAYTEST.md b/docs/PLAYTEST.md
@@ -12,6 +12,7 @@
 | 2 | 북쪽 고개 끝까지 간다 | 3층 포탈 앞 길을 쇠창살 문이 막는다. 살피면 종 세 개 문양 |
 | 3 | 묘역 · 납골당 · 듀라한 폐허의 종(나무 종틀 + 등불)을 살펴 "종을 울린다" | 울림 문구, 등불이 푸른 불로, HUD 종 1/3 → 2/3 → 3/3. 둘레 스켈레톤이 몰려온다. 셋째에 "쇠사슬 풀리는 소리" 문구 → 쇠문이 사라지고 지나간다 |
 | 4 | 길을 걷는다 | 길 한가운데쯤에서 땅이 들썩이며 구울 · 스켈레톤 무리가 일어나 쫓아온다(같은 자리 두 번은 없음). 길 위에 시체 · 공물 · 모닥불 |
+| 5 | 묘역 문(예배당 북쪽 회랑 끝)으로 간다 | 첫날부터 데스나이트가 서 있다(보스 무리). 묘역에 새 비석 · 시체 일지 셋이 없다 |
 
 ### 망자의 땅 — 잿빛 · 길 그래프 · 꾸미기 (2026-11-05)
 
